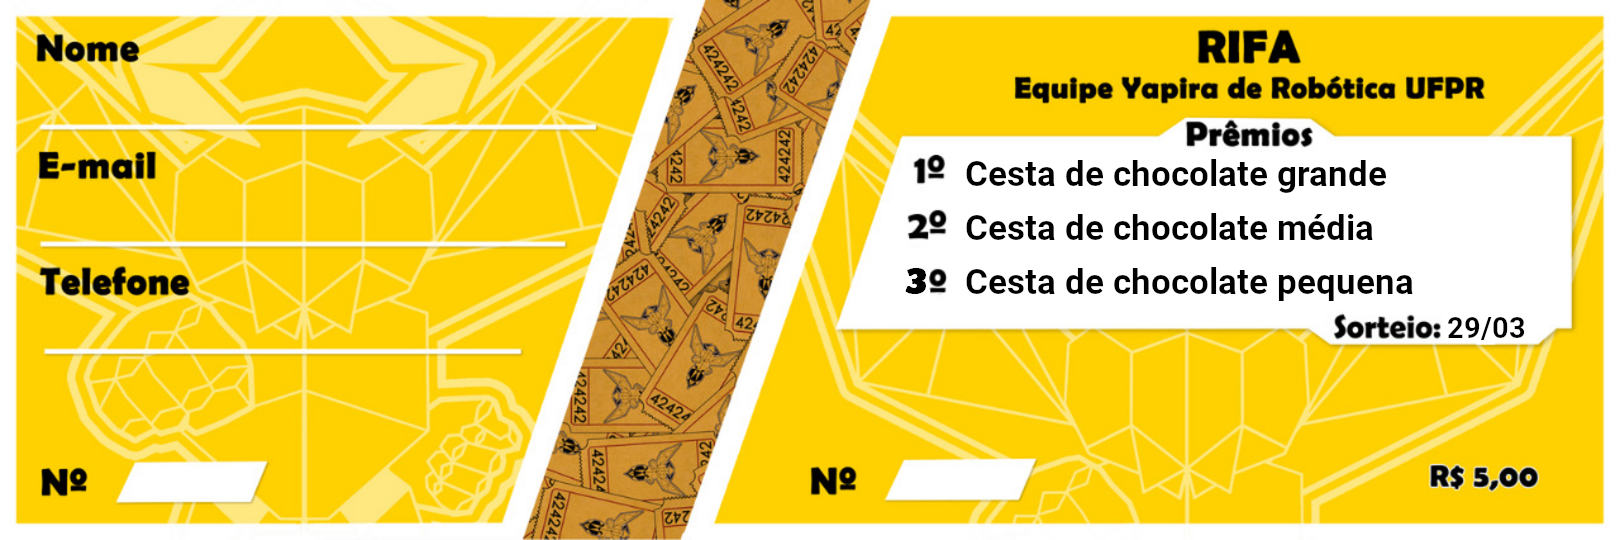
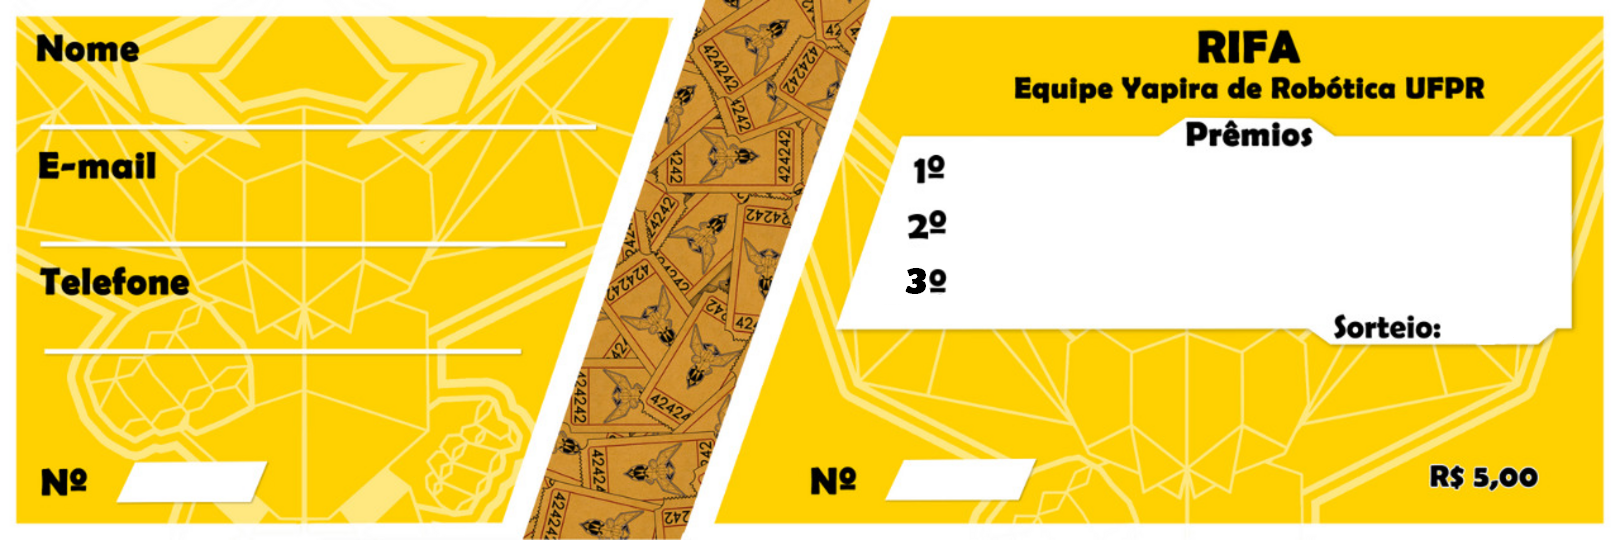
Rifa 12/06 and add prizes/date as constants on script

diff --git a/faz_rifa.py b/faz_rifa.py
@@ -10,9 +10,17 @@ Modo de uso:
     $ python3 faz_rifa.py
 """
 
-__author__ = "Gabriel Hishida and Allan Cedric"
+__author__ = "Gabriel Hishida, Allan Cedric and Gabriel Pontarolo"
 
 import pip
+
+PRIZES = [
+    "2 pizzas salgadas (medias) e 1 doce (broto)",
+    "1 kit bolo",
+    "1 caneca de dia dos namorados + caixa de bombom"
+]
+
+DRAW_DATE = "12/06"
 
 def import_or_install(package):
     try:
@@ -119,6 +127,14 @@ if __name__ == "__main__":
         cv2.putText(pic, phone, (63, 335), cv2.FONT_HERSHEY_SIMPLEX, fontScale=1, color=(0,0,0), thickness=2)
         cv2.putText(pic, number, (130, 490), cv2.FONT_HERSHEY_SIMPLEX, fontScale=0.7, color=(0,0,0), thickness=2)
         cv2.putText(pic, number, (900, 490), cv2.FONT_HERSHEY_SIMPLEX, fontScale=0.7, color=(0,0,0), thickness=2)
+
+        # Write prizes
+        cv2.putText(pic, PRIZES[0], (960, 180), cv2.FONT_HERSHEY_SIMPLEX, fontScale=0.7, color=(0,0,0), thickness=2)
+        cv2.putText(pic, PRIZES[1], (960, 235), cv2.FONT_HERSHEY_SIMPLEX, fontScale=0.7, color=(0,0,0), thickness=2)
+        cv2.putText(pic, PRIZES[2], (960, 290), cv2.FONT_HERSHEY_SIMPLEX, fontScale=0.7, color=(0,0,0), thickness=2)
+
+        # Write draw date
+        cv2.putText(pic, DRAW_DATE, (1445, 335), cv2.FONT_HERSHEY_SIMPLEX, fontScale=0.7, color=(0,0,0), thickness=2)
 
         cv2.imshow('Rifa', pic)
         cv2.waitKey(800)
